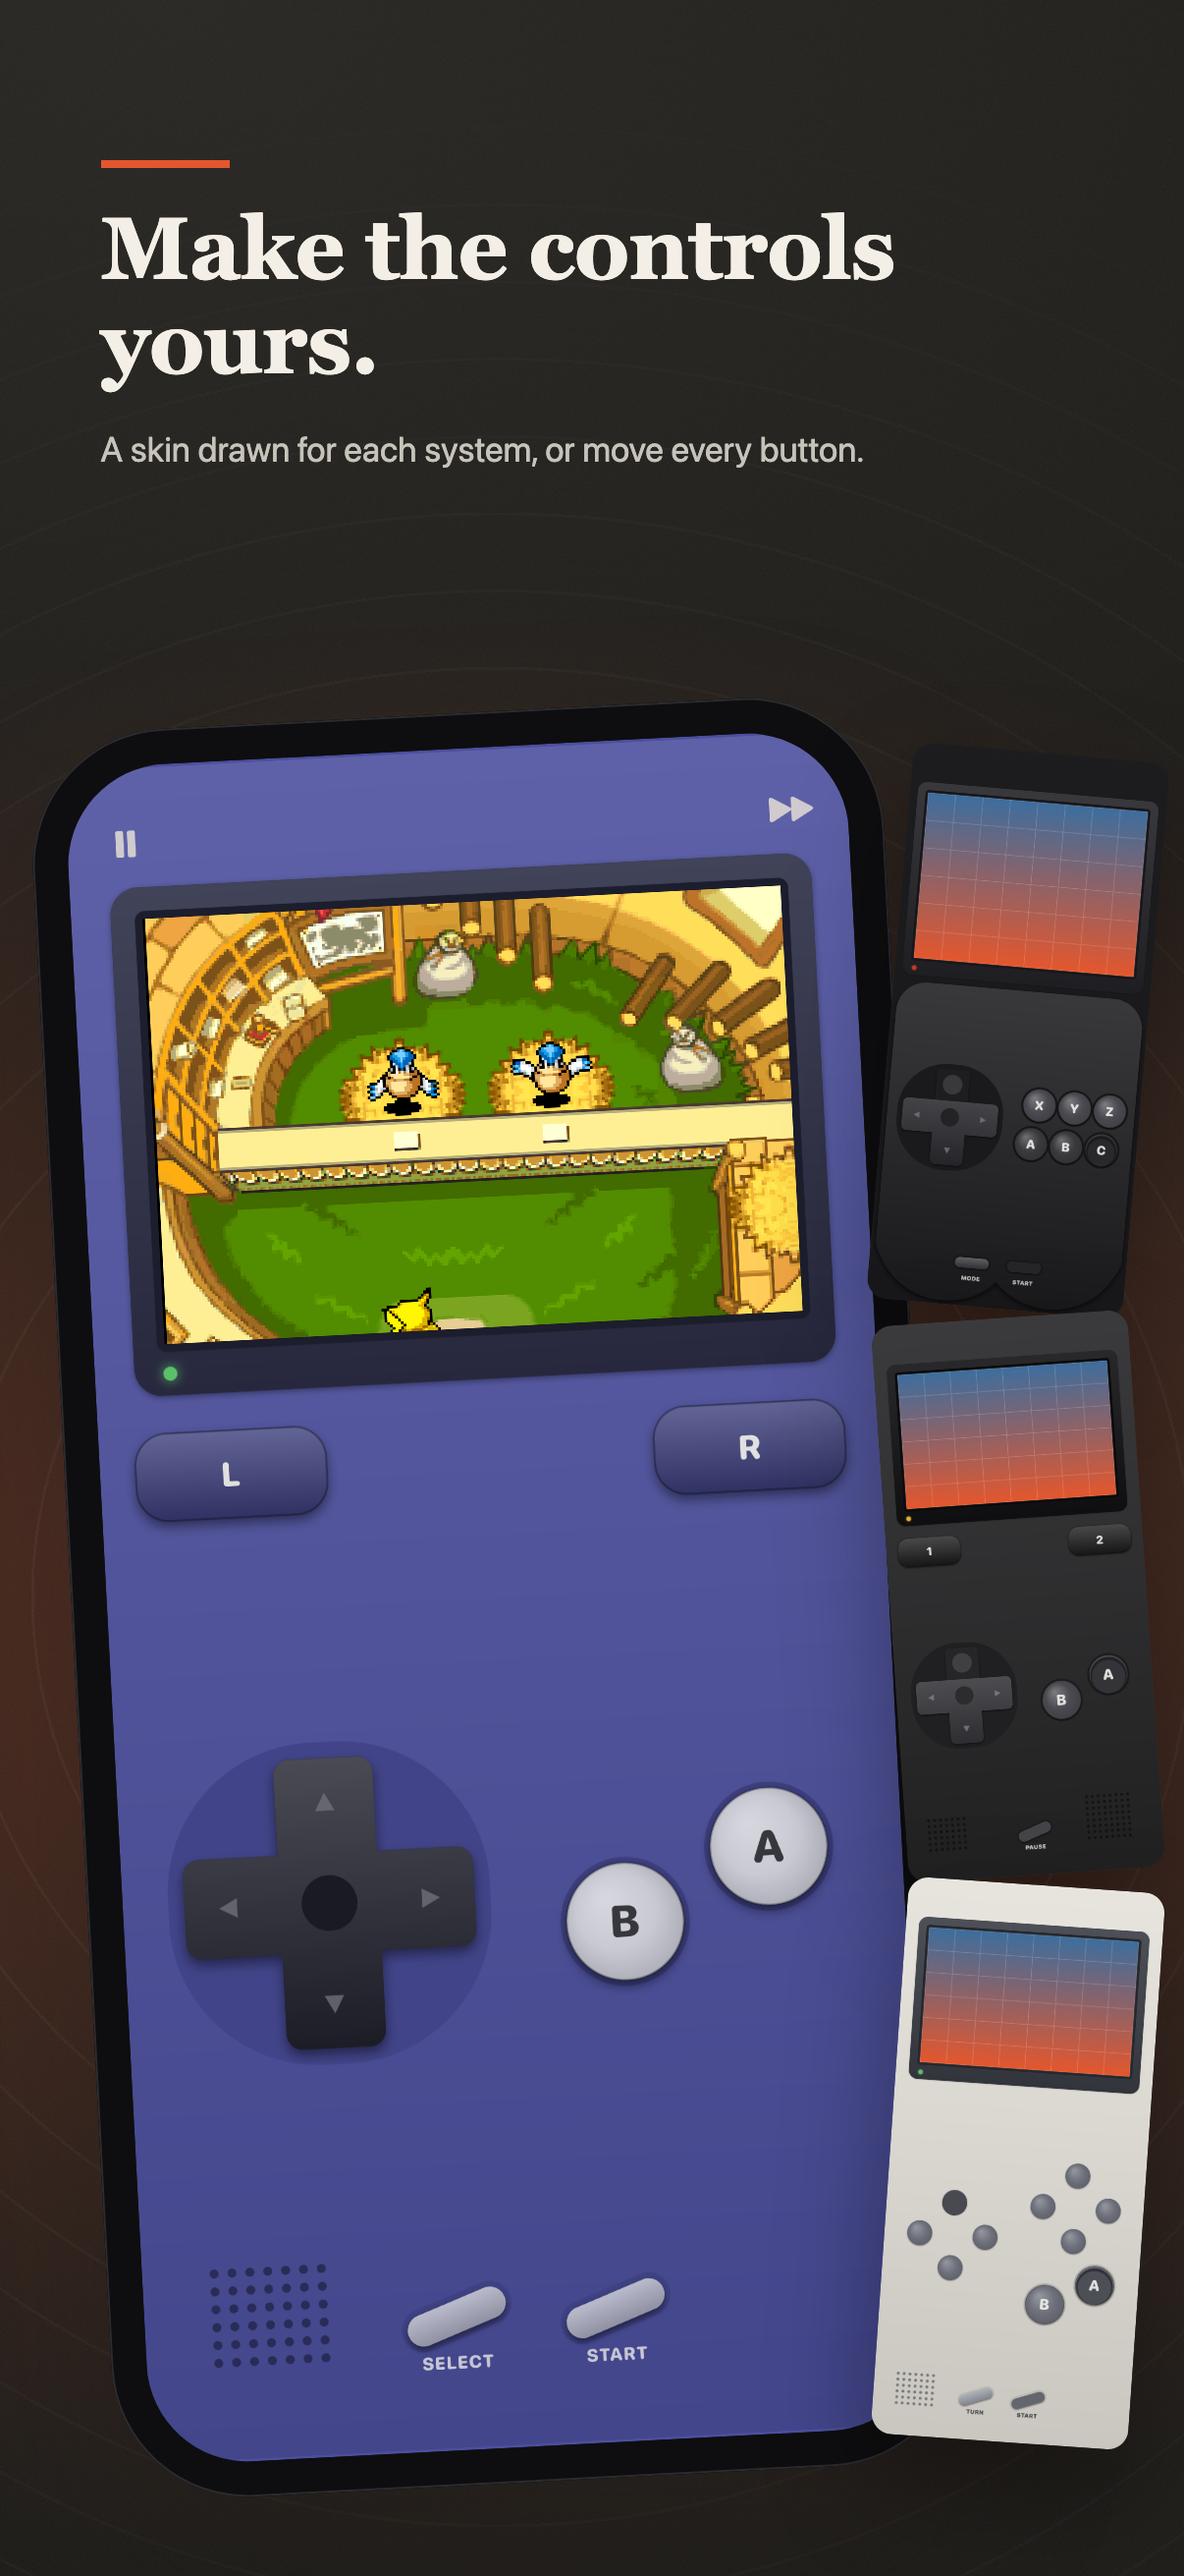
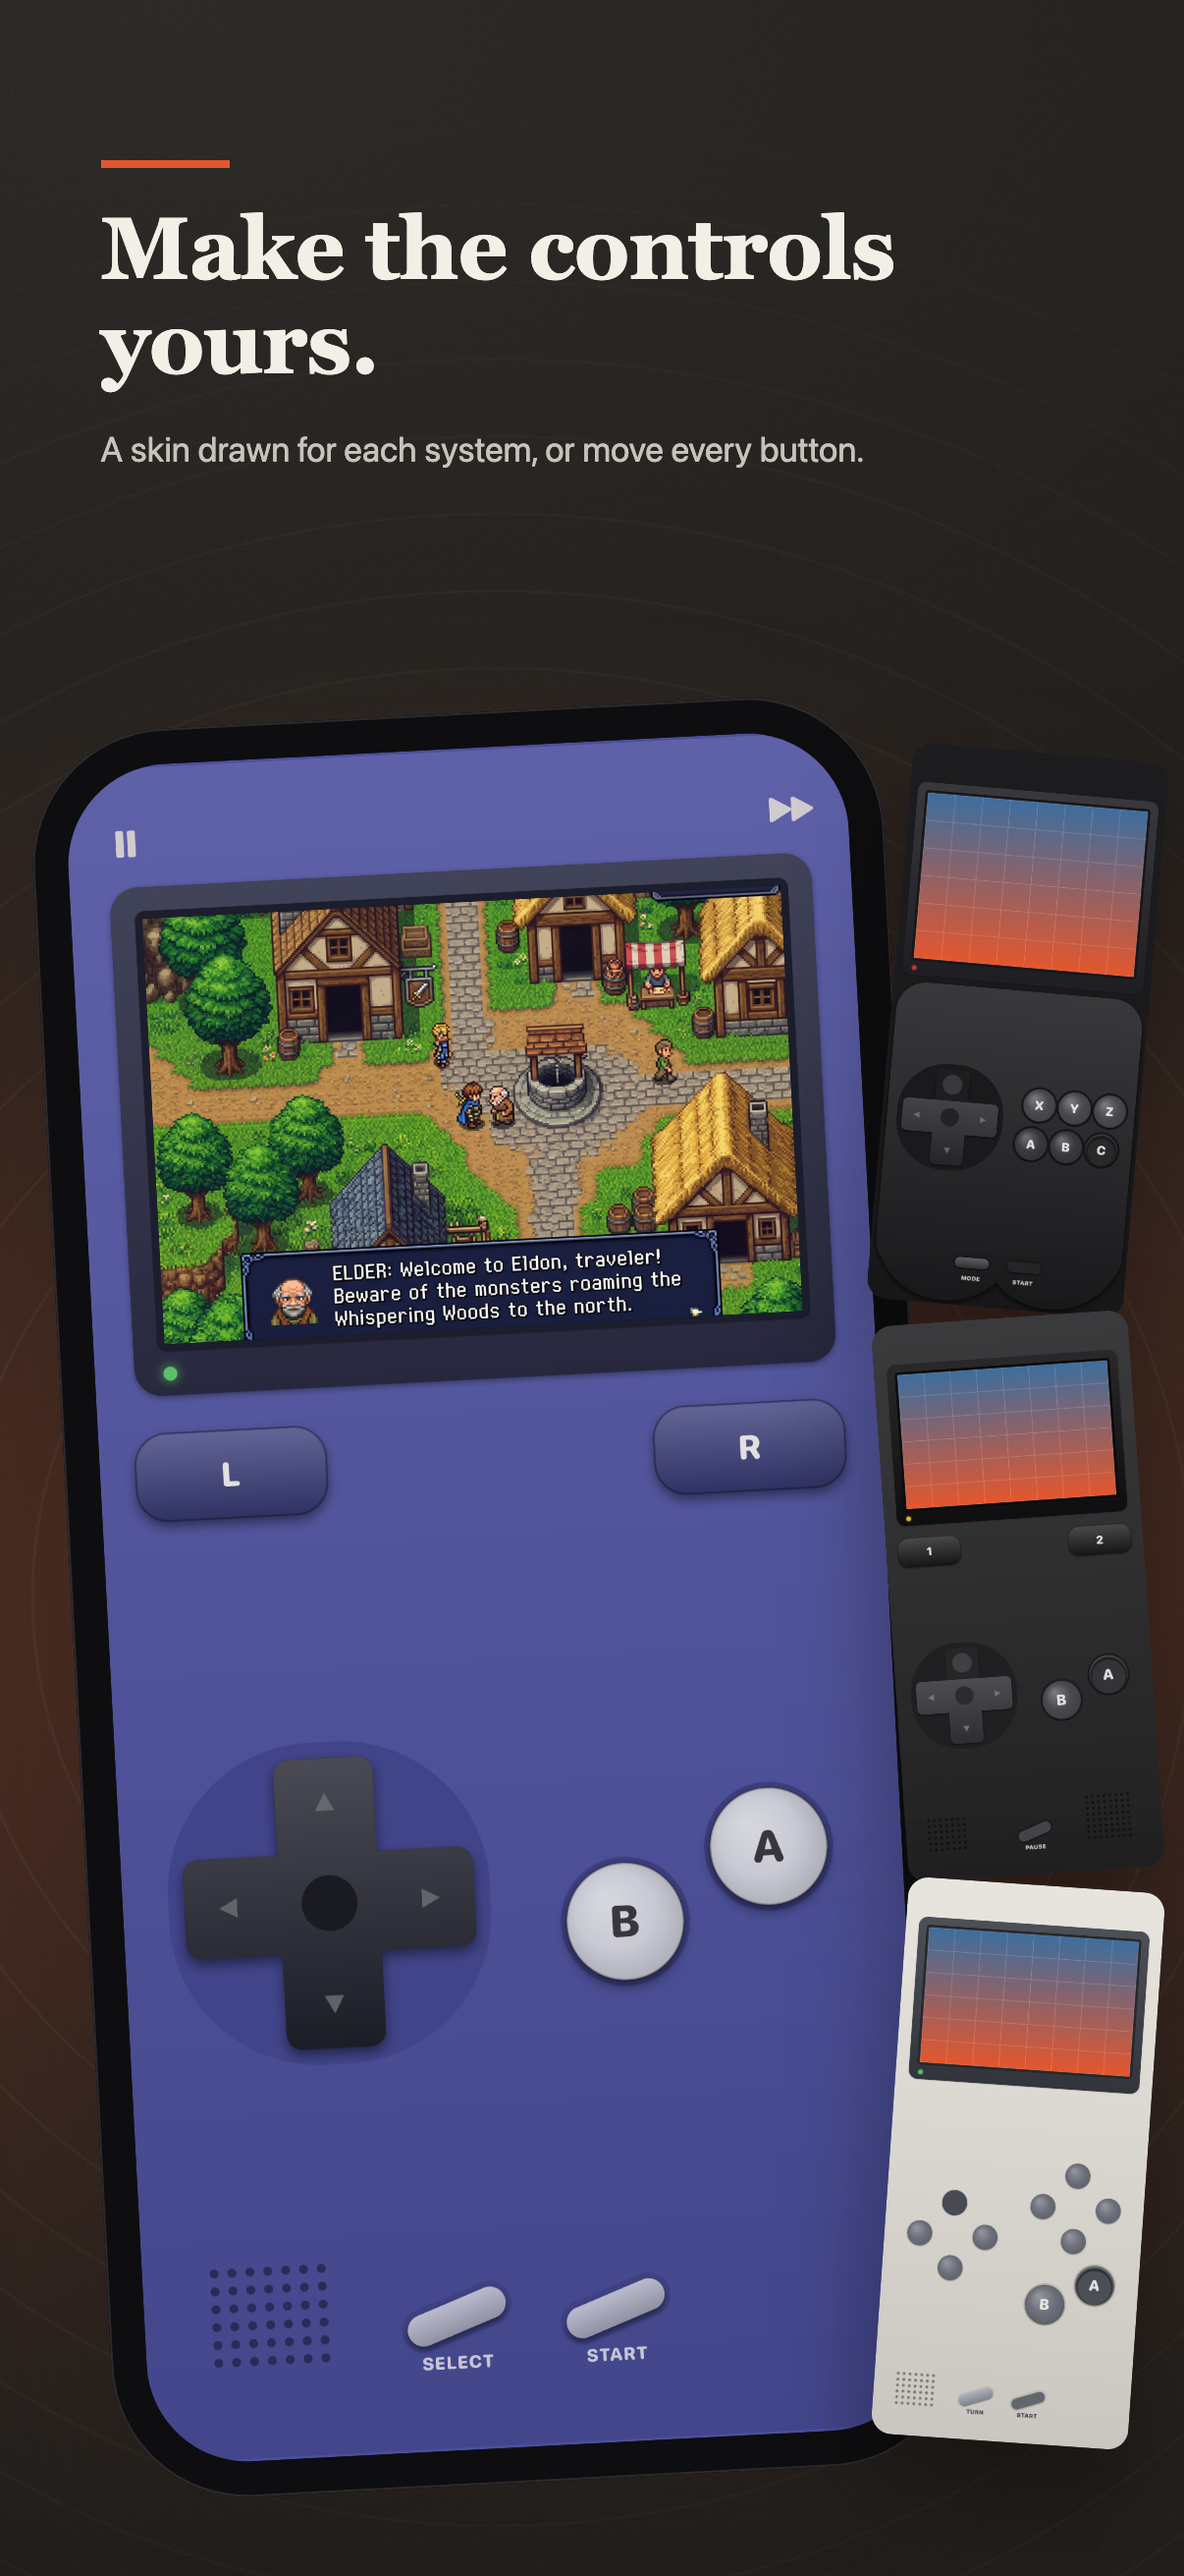
feat(store): lesser-known real covers mixed with our own, new Library and shot 10 captures
Covers on shots 1, 3 and 8, the header, search and retention art are now about half real box art of
lesser-known games (scripts/store/real_covers.swift, no big franchises or console makers' mascots) and
half our own invented covers cut to 3:4 (scripts/store/invented_covers.swift, design/store/source/covers-invented).
The Library screen is a new iPhone capture with 3DS, DS and PSP shelves of those covers; the iPad set shows it
in an iPhone frame. Shot 10's skin in play is a new iPhone capture with our own village art in the game area.
prep_screens.swift --shelves makes both screens.

Changed region(s): [[0.1227, 0.3398, 0.675, 0.5252]]

diff --git a/design/store/store.html b/design/store/store.html
@@ -70,8 +70,10 @@ function sheet(s, n, { dark = false, tone, cx = 0.5, cy = 0.7, wash = 0.7, z = 0
 
 /// An iPhone (or with ?ipad=1 an iPad: slimmer bezel, smaller corners) in a CSS frame. h: screen height (portrait)
 /// or screen width (landscape) as a fraction of H.
-function phone(s, x, y, h, src, { rot = 0, land = false, z = 3 } = {}) {
-  const long = h * H, short = long / SCREEN, bez = short * P(0.045, 0.028);
+/// iphone: an iPhone frame and capture even on the iPad set.
+function phone(s, x, y, h, src, { rot = 0, land = false, z = 3, iphone = false } = {}) {
+  const P = (phoneValue, ipadValue) => IPAD && !iphone ? ipadValue : phoneValue;
+  const long = h * H, short = long / P(2622 / 1206, SCREEN), bez = short * P(0.045, 0.028);
   const sw = land ? long : short, sh = land ? short : long;
   const fw = sw + 2 * bez, fh = sh + 2 * bez, r = Math.min(fw, fh) * P(0.16, 0.06);
   const d = el("div", "dev", { left: px(X(s, x) - fw / 2), top: px(y * H - fh / 2), width: px(fw), height: px(fh),
@@ -122,8 +124,9 @@ function glow(s, x, y, r, color) {
                      background: `radial-gradient(circle, ${color} 0%, transparent 70%)`, zIndex: 1 });
 }
 
-// Real box art (scripts/store/real_covers.swift), always thumbnail-sized: never the hero.
-const C = n => `source/covers-real/cover-${String(n).padStart(2, "0")}.png`;
+// Covers, always thumbnail-sized, never the hero: 1-10 real box art of lesser-known games (scripts/store/real_covers.swift),
+// 11-20 our own invented covers (scripts/store/invented_covers.swift). Each group mixes the two about half and half.
+const C = n => `source/covers-${n > 10 ? "invented" : "real"}/cover-${String((n - 1) % 10 + 1).padStart(2, "0")}.png`;
 const S = n => `${P("screens", "screens-ipad")}/${n}.png`;
 /// A small cover, w as a fraction of H, 3:4.
 const cover = (s, x, y, w, n, rot = 0, z = 2) => card(s, x, y, w, C(n), { rot, aspect: 3 / 4, z, radius: 0.004 });
@@ -136,8 +139,8 @@ function storeShots() {
   // 1-2: the hero pair on an ink sheet, one landscape phone across the edge.
   sheet(1, 2, { dark: true, cx: 1.0, cy: 0.79, wash: 1 });
   caption(1, "Your games.<br>One app.", "Play homebrew and the backups you own.", { dark: true, size: 0.05 });
-  [[0.2, 0.36, 1, -4], [0.42, 0.35, 4, 2], [0.64, 0.37, 2, -2], [0.86, 0.355, 6, 3],
-   [0.25, 0.5, 9, 3], [0.48, 0.51, 3, -3], [0.71, 0.5, 7, 2]]
+  [[0.2, 0.36, 1, -4], [0.42, 0.35, 14, 2], [0.64, 0.37, 2, -2], [0.86, 0.355, 16, 3],
+   [0.25, 0.5, 13, 3], [0.48, 0.51, 9, -3], [0.71, 0.5, 17, 2]]
     .forEach(([x, y, n, r]) => cover(1, x, y, 0.072, n, r));
   phone(1, 1.0, 0.79, 0.58, S("play-landscape"), { land: true, rot: -5, z: 5 });
   glow(1, 1.0, 0.79, 0.3, "rgba(228,87,46,.35)");
@@ -149,9 +152,10 @@ function storeShots() {
   // 3: the Library.
   sheet(3, 1, { cy: 0.62 });
   caption(3, "One shelf for the<br>games you own.", "Your own covers, sorted the way you like.");
-  phone(3, 0.5, P(0.62, 0.6), P(0.68, 0.72), S("library"), { rot: 0, z: 3 });
+  // The iPad set shows the iPhone Library too: its 3DS, DS and PSP shelves are an iPhone capture.
+  phone(3, 0.5, P(0.62, 0.6), 0.68, "screens/library.png", { rot: 0, z: 3, iphone: true });
   cover(3, 0.13, 0.4, 0.07, 8, -8);
-  cover(3, 0.87, 0.8, 0.07, 5, 7, 4);
+  cover(3, 0.87, 0.8, 0.07, 15, 7, 4);
 
   // 4-5: touch, then a controller; the pad sits across the edge.
   sheet(4, 2, { cx: 1.0, cy: 0.62 });
@@ -218,7 +222,7 @@ function artwork(kind) {
     const rots = [-4, 3, -2, 2, -3, 4, 3, -2, -4];
     [0, 1].forEach(side => g.xs.forEach((x, c) => [0.2, 0.5, 0.8].forEach((y, r) => {
       const i = side * 9 + c * 3 + r;
-      cover(1, side ? 1 - x : x, y, g.cw, (i % 10) + 1, rots[i % 9] * (side ? -1 : 1));
+      cover(1, side ? 1 - x : x, y, g.cw, (i % 2 ? 11 : 1) + (i >> 1), rots[i % 9] * (side ? -1 : 1));   // real and invented in turn
     })));
     const s = g.icon * H;
     el("img", "abs", { left: px(W / 2 - s / 2), top: px(g.iy * H - s / 2), width: px(s), height: px(s), borderRadius: px(s * 0.2237),
@@ -233,7 +237,7 @@ function artwork(kind) {
     head(0.08, 0.33, 0.09, "Pick up where<br>you left off.", "var(--ink)");
     sub(0.082, 0.58, 0.035, "Your shelf, your saves, your games.", "var(--muted)");
     cover(1, 0.89, 0.27, 0.13, 2, 6);
-    cover(1, 0.9, 0.76, 0.13, 8, -5);
+    cover(1, 0.9, 0.76, 0.13, 18, -5);
     phone(1, 0.66, 0.52, 0.84, S("library"), { rot: -4, z: 5 });
   }
 }

diff --git a/scripts/store/invented_covers.swift b/scripts/store/invented_covers.swift
@@ -1,0 +1,59 @@
+// Builds 3:4 covers (600 x 800, the Library's shape) for the store shelves from our own invented covers in
+// design/store/source/cover-01..10.png (scripts/store/clean_art.swift), into design/store/source/covers-invented.
+// Same cut as clean_art.swift's seed tiles: the title band over the art below it, centred on the focus, blended at
+// the seam. Needs only the cleaned covers in the repo, not the owner's source images.
+//
+//     swift scripts/store/invented_covers.swift
+import AppKit
+import ImageIO
+import UniformTypeIdentifiers
+
+let root = URL(fileURLWithPath: #filePath).deletingLastPathComponent().deletingLastPathComponent().deletingLastPathComponent()
+let src = root.appendingPathComponent("design/store/source")
+let out = src.appendingPathComponent("covers-invented")
+try FileManager.default.createDirectory(at: out, withIntermediateDirectories: true)
+let srgb = CGColorSpace(name: CGColorSpace.sRGB)!
+
+// Title box (x0, y0, x1, y1) and the art's focus x, in pixels of each cleaned cover; as clean_art.swift.
+let covers: [(title: (Int, Int, Int, Int), focus: Int)] = [
+    ((0, 0, 2000, 300), 970), ((60, 20, 1940, 260), 1030), ((40, 45, 800, 310), 900), ((280, 60, 1720, 310), 1030),
+    ((300, 60, 1700, 220), 1000), ((40, 20, 1960, 330), 1000), ((40, 30, 1960, 270), 940), ((570, 40, 1450, 400), 1000),
+    ((40, 40, 1960, 320), 700), ((20, 50, 1980, 300), 880),
+]
+
+let W = 600, H = 800
+for (i, c) in covers.enumerated() {
+    let name = String(format: "cover-%02d.png", i + 1)
+    let s = CGImageSourceCreateWithURL(src.appendingPathComponent(name) as CFURL, nil)!
+    let b = CGImageSourceCreateImageAtIndex(s, 0, nil)!
+    let tw = c.title.2 - c.title.0, th = c.title.3 - c.title.1
+    let bandH = Int(Double(th) * Double(W) / Double(tw))
+    let ctx = CGContext(data: nil, width: W, height: H, bitsPerComponent: 8, bytesPerRow: 0, space: srgb,
+                        bitmapInfo: CGImageAlphaInfo.noneSkipLast.rawValue)!
+    ctx.interpolationQuality = .high
+    // Art: below the title band, filling the tile height under it plus the blend overlap.
+    let artTop = c.title.3 - Int(Double(th) * 0.15)
+    let artH = b.height - artTop
+    let artDestH = H - bandH + Int(Double(bandH) * 0.25)
+    let artW = Int(Double(artH) * Double(W) / Double(artDestH))
+    let ax = max(0, min(b.width - artW, c.focus - artW / 2))
+    ctx.draw(b.cropping(to: CGRect(x: ax, y: artTop, width: min(artW, b.width), height: artH))!,
+             in: CGRect(x: 0, y: 0, width: W, height: artDestH))
+    // Title band, its lower quarter faded into the art.
+    let band = b.cropping(to: CGRect(x: c.title.0, y: c.title.1, width: tw, height: th))!
+    let gray = CGContext(data: nil, width: W, height: bandH, bitsPerComponent: 8, bytesPerRow: 0, space: CGColorSpaceCreateDeviceGray(),
+                         bitmapInfo: CGImageAlphaInfo.none.rawValue)!
+    let grad = CGGradient(colorsSpace: CGColorSpaceCreateDeviceGray(), colors: [CGColor(gray: 0, alpha: 1), CGColor(gray: 1, alpha: 1)] as CFArray,
+                          locations: [0, 1])!
+    gray.setFillColor(CGColor(gray: 1, alpha: 1)); gray.fill(CGRect(x: 0, y: 0, width: W, height: bandH))
+    gray.drawLinearGradient(grad, start: .zero, end: CGPoint(x: 0, y: Double(bandH) * 0.25), options: [.drawsAfterEndLocation])
+    ctx.saveGState()
+    ctx.clip(to: CGRect(x: 0, y: H - bandH, width: W, height: bandH), mask: gray.makeImage()!)
+    ctx.draw(band, in: CGRect(x: 0, y: H - bandH, width: W, height: bandH))
+    ctx.restoreGState()
+    let url = out.appendingPathComponent(name)
+    let d = CGImageDestinationCreateWithURL(url as CFURL, UTType.png.identifier as CFString, 1, nil)!
+    CGImageDestinationAddImage(d, ctx.makeImage()!, nil)
+    precondition(CGImageDestinationFinalize(d), "write failed \(url.path)")
+}
+print("\(covers.count) covers -> \(out.path)")

diff --git a/scripts/store/real_covers.swift b/scripts/store/real_covers.swift
@@ -1,4 +1,4 @@
-// Cuts the real box art used, small, on the store shelves into design/store/source/covers-real/cover-01..10.png
+// Cuts the real box art used, small, on the store shelves into design/store/source/covers-real/cover-01..16.png
 // (600 x 800, the Library's 3:4).
 //
 //     swift scripts/store/real_covers.swift <boxarts-dir>
@@ -18,16 +18,24 @@ try FileManager.default.createDirectory(at: out, withIntermediateDirectories: tr
 
 // Source file and crop (x0, y0, x1, y1) as fractions of the box art, top-left origin.
 let covers: [(file: String, crop: (Double, Double, Double, Double))] = [
-    ("01", (0.19, 0.00, 0.83, 0.82)),   // Game Boy Advance
-    ("02", (0.00, 0.00, 0.45, 0.80)),   // Super NES
-    ("03", (0.04, 0.00, 0.96, 0.84)),   // NES
-    ("04", (0.10, 0.09, 0.90, 0.86)),   // Mega Drive
-    ("05", (0.16, 0.00, 0.88, 1.00)),   // PlayStation
-    ("06", (0.05, 0.02, 0.55, 0.98)),   // Nintendo 64
-    ("07", (0.21, 0.00, 0.84, 0.76)),   // Game Boy Color
-    ("08", (0.12, 0.00, 0.79, 0.90)),   // PC Engine
-    ("11", (0.12, 0.00, 0.85, 0.95)),   // Dreamcast
-    ("13", (0.19, 0.00, 0.78, 0.78)),   // Game Boy
+    // Lesser-known titles only: no big franchises or console makers' mascots on the store pages.
+    ("01", (0.36, 0.00, 1.00, 0.84)),   // Game Boy Advance
+    ("02", (0.00, 0.06, 0.45, 0.76)),   // Super NES
+    ("03", (0.00, 0.045, 1.00, 0.86)),  // NES
+    ("04", (0.18, 0.09, 1.00, 0.87)),   // Mega Drive
+    ("05", (0.15, 0.00, 1.00, 0.93)),   // PlayStation
+    ("06", (0.00, 0.00, 0.62, 0.86)),   // Nintendo 64
+    ("07", (0.22, 0.00, 1.00, 0.68)),   // Game Boy Color
+    ("08", (0.00, 0.00, 0.75, 0.85)),   // PC Engine
+    ("09", (0.15, 0.00, 1.00, 0.80)),   // Dreamcast
+    ("10", (0.21, 0.12, 1.00, 0.80)),   // Game Boy
+    // 11-16 seed the Library capture's 3DS, PSP and DS shelves.
+    ("11", (0.10, 0.00, 0.88, 0.80)),   // Nintendo 3DS
+    ("12", (0.00, 0.00, 0.88, 0.93)),   // Nintendo 3DS
+    ("13", (0.00, 0.04, 1.00, 0.88)),   // PSP
+    ("14", (0.00, 0.04, 1.00, 0.86)),   // PSP
+    ("15", (0.16, 0.00, 1.00, 0.78)),   // Nintendo DS
+    ("16", (0.16, 0.18, 0.95, 0.92)),   // Nintendo DS
 ]
 
 let W = 600, H = 800

diff --git a/scripts/store/prep_screens.swift b/scripts/store/prep_screens.swift
@@ -2,6 +2,7 @@
 //
 //     swift -O scripts/store/prep_screens.swift <captures-dir> [library-dy]
 //     swift -O scripts/store/prep_screens.swift --ipad <captures-dir>    iPad Pro 13-inch simulator, to screens-ipad
+//     swift -O scripts/store/prep_screens.swift --shelves <dir>          Library and shot 10 only (see below)
 //
 // [library-dy] moves the Library's two painted areas up or down, in pixels: the iPhone 17 simulator draws that page
 // 36 px higher than the device (-36). Default 0, the device.
@@ -20,7 +21,7 @@ import UniformTypeIdentifiers
 let root = URL(fileURLWithPath: #filePath).deletingLastPathComponent().deletingLastPathComponent().deletingLastPathComponent()
 // --ipad: captures from the iPad Pro 13-inch simulator (2064x2752), written to design/store/screens-ipad.
 let ipad = CommandLine.arguments.contains("--ipad")
-let args = CommandLine.arguments.filter { $0 != "--ipad" }
+let args = CommandLine.arguments.filter { $0 != "--ipad" && $0 != "--shelves" }
 guard (2...3).contains(args.count) else { print("usage: prep_screens.swift [--ipad] <captures-dir> [library-dy]"); exit(2) }
 let libraryDY = args.count == 3 ? Int(args[2])! : 0
 let caps = URL(fileURLWithPath: args[1])
@@ -217,6 +218,20 @@ func dimmedGame(_ b: inout Bitmap, _ name: String) {
         let p = a[x - x0, y - y0]
         b[x, y] = (p.0 * k + off, p.1 * k + off, p.2 * k + off)
     } }
+}
+
+// --shelves <dir>: only the Library (library.png: the 3DS, DS and PSP shelves seeded with lesser-known and invented
+// covers) and shot 10's skin in play (play.png: the test ROM in the GBA device skin), both from the iPhone.
+// The game area gets our own village art, so no real game shows in the skin.
+if CommandLine.arguments.contains("--shelves") {
+    let dir = URL(fileURLWithPath: CommandLine.arguments.last!)
+    var library = load(dir.appendingPathComponent("library.png"))
+    statusBar(&library)
+    save(library, "library.png")
+    var play = load(dir.appendingPathComponent("play.png"))
+    game(&play, barsRect(play, within: (0, 0, play.w, play.h / 2)), "game-16bit.png", unmix: false)
+    save(play, "skin-play.png")
+    exit(0)
 }
 
 if ipad {
